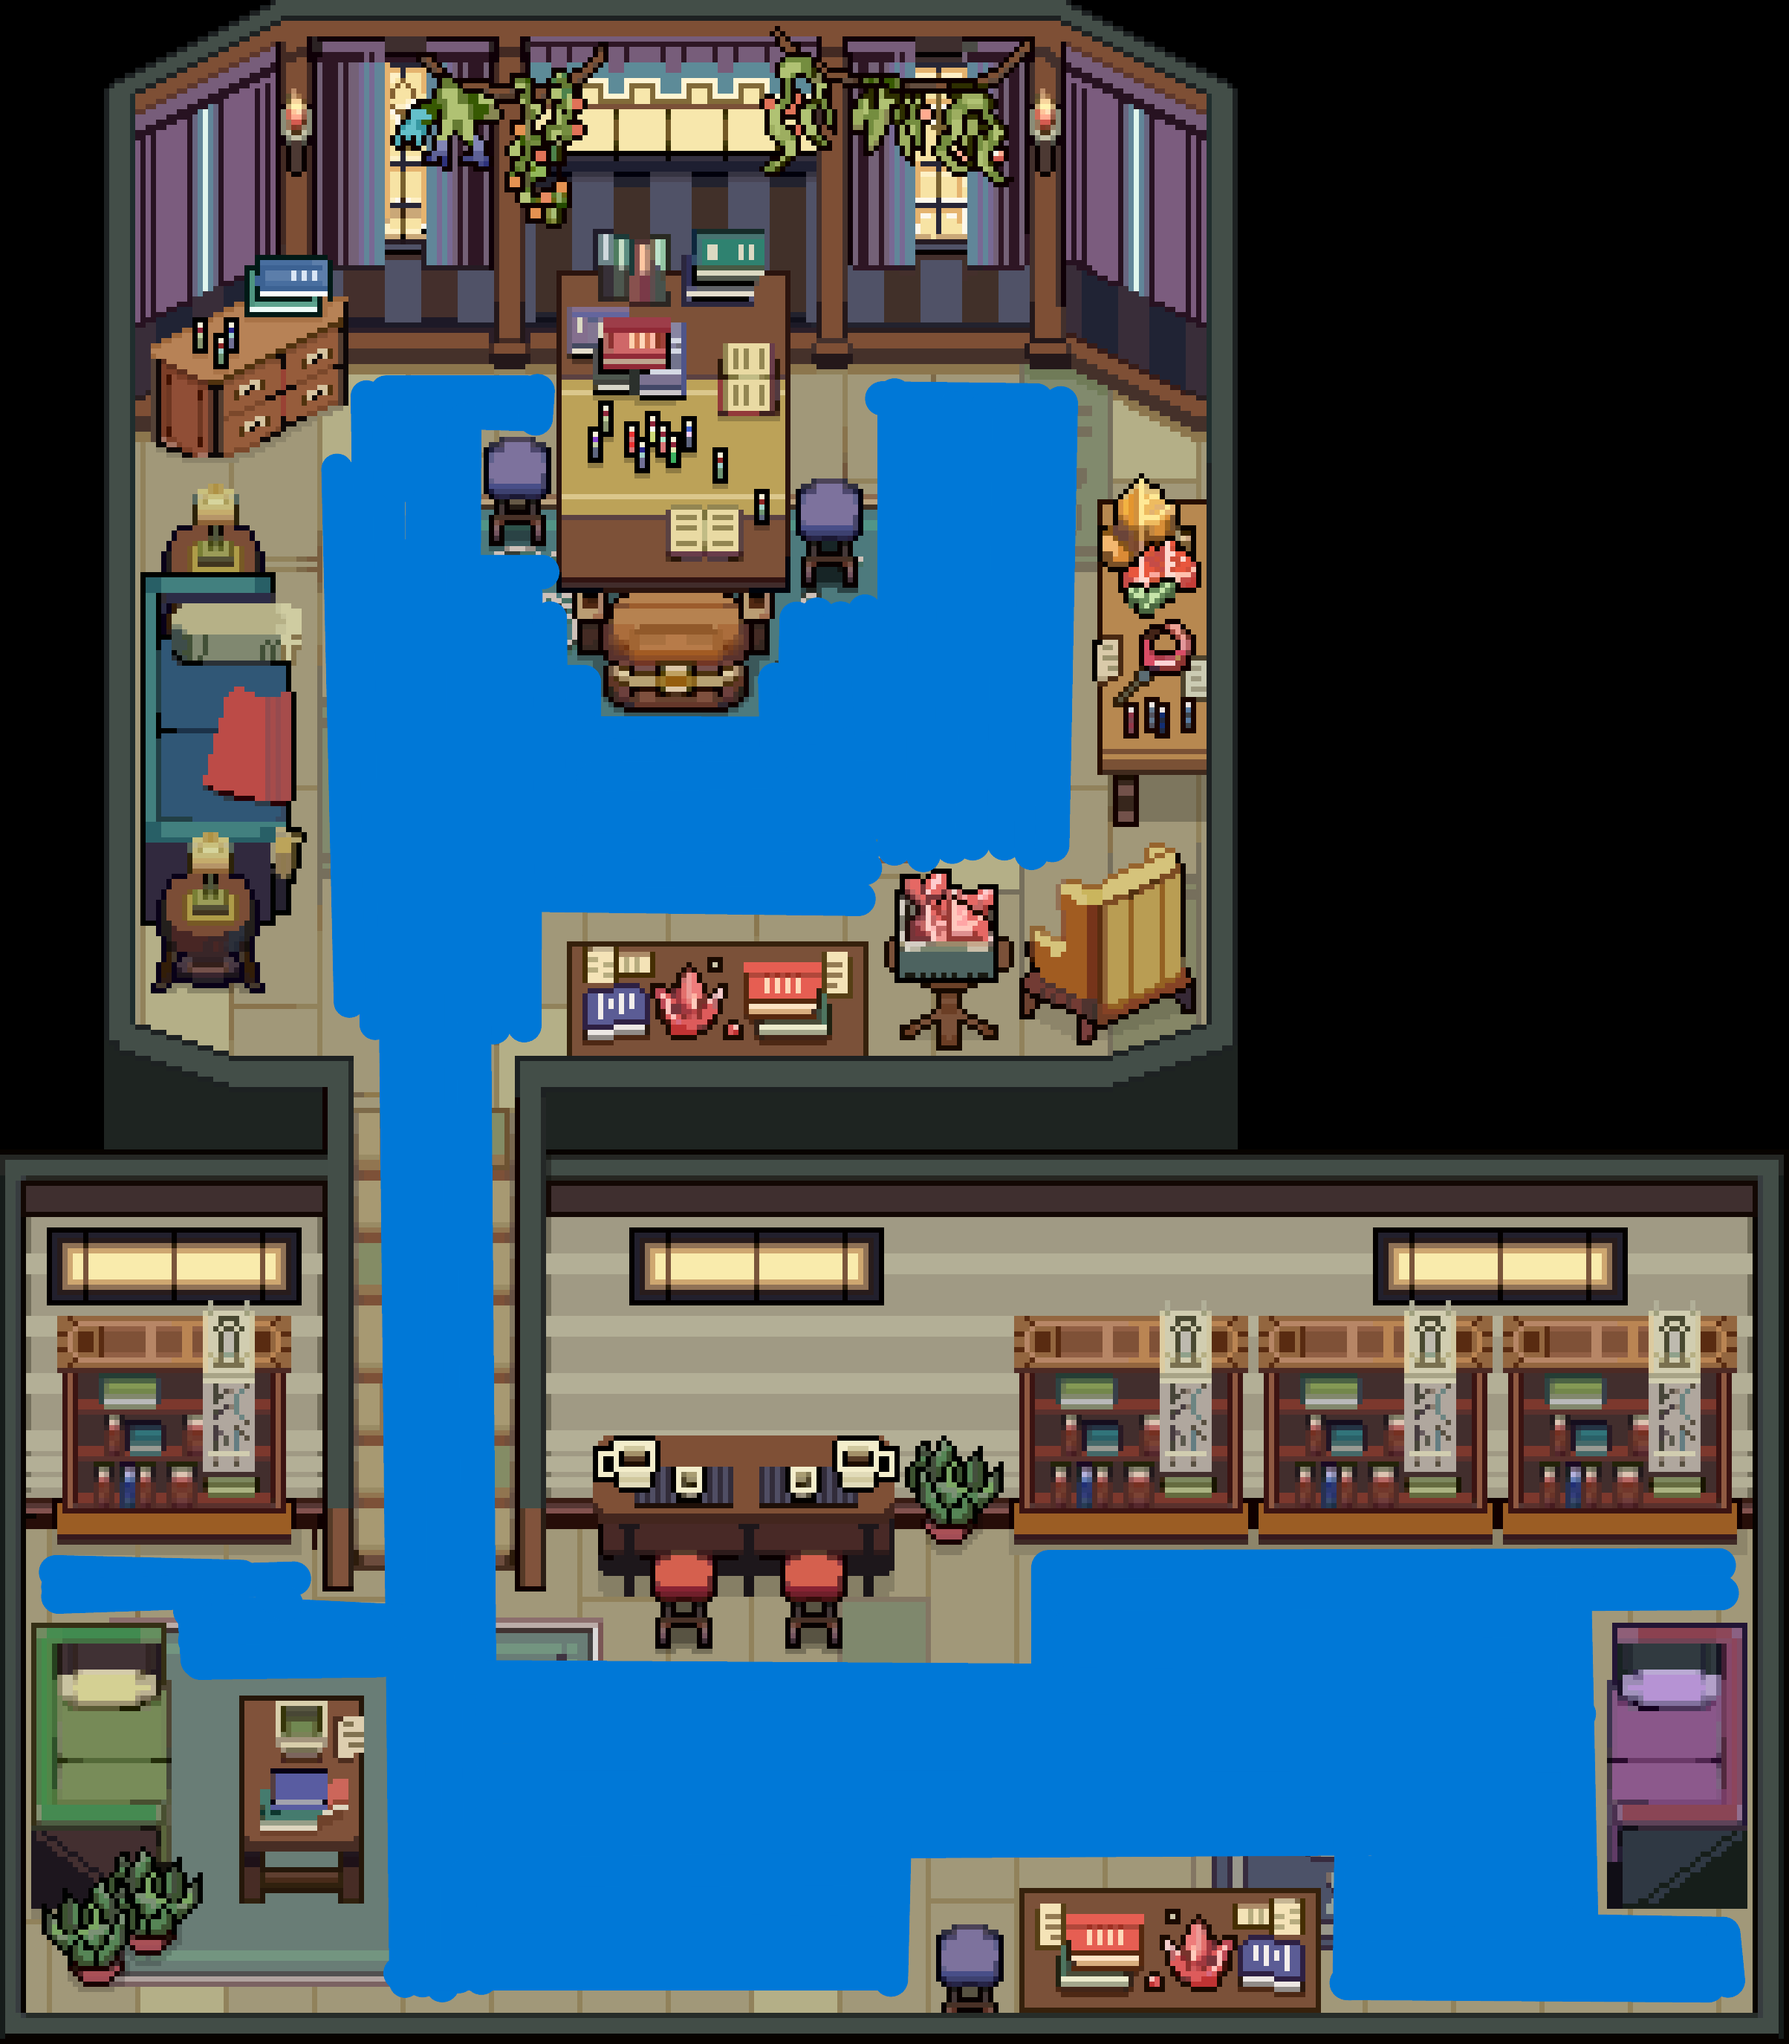
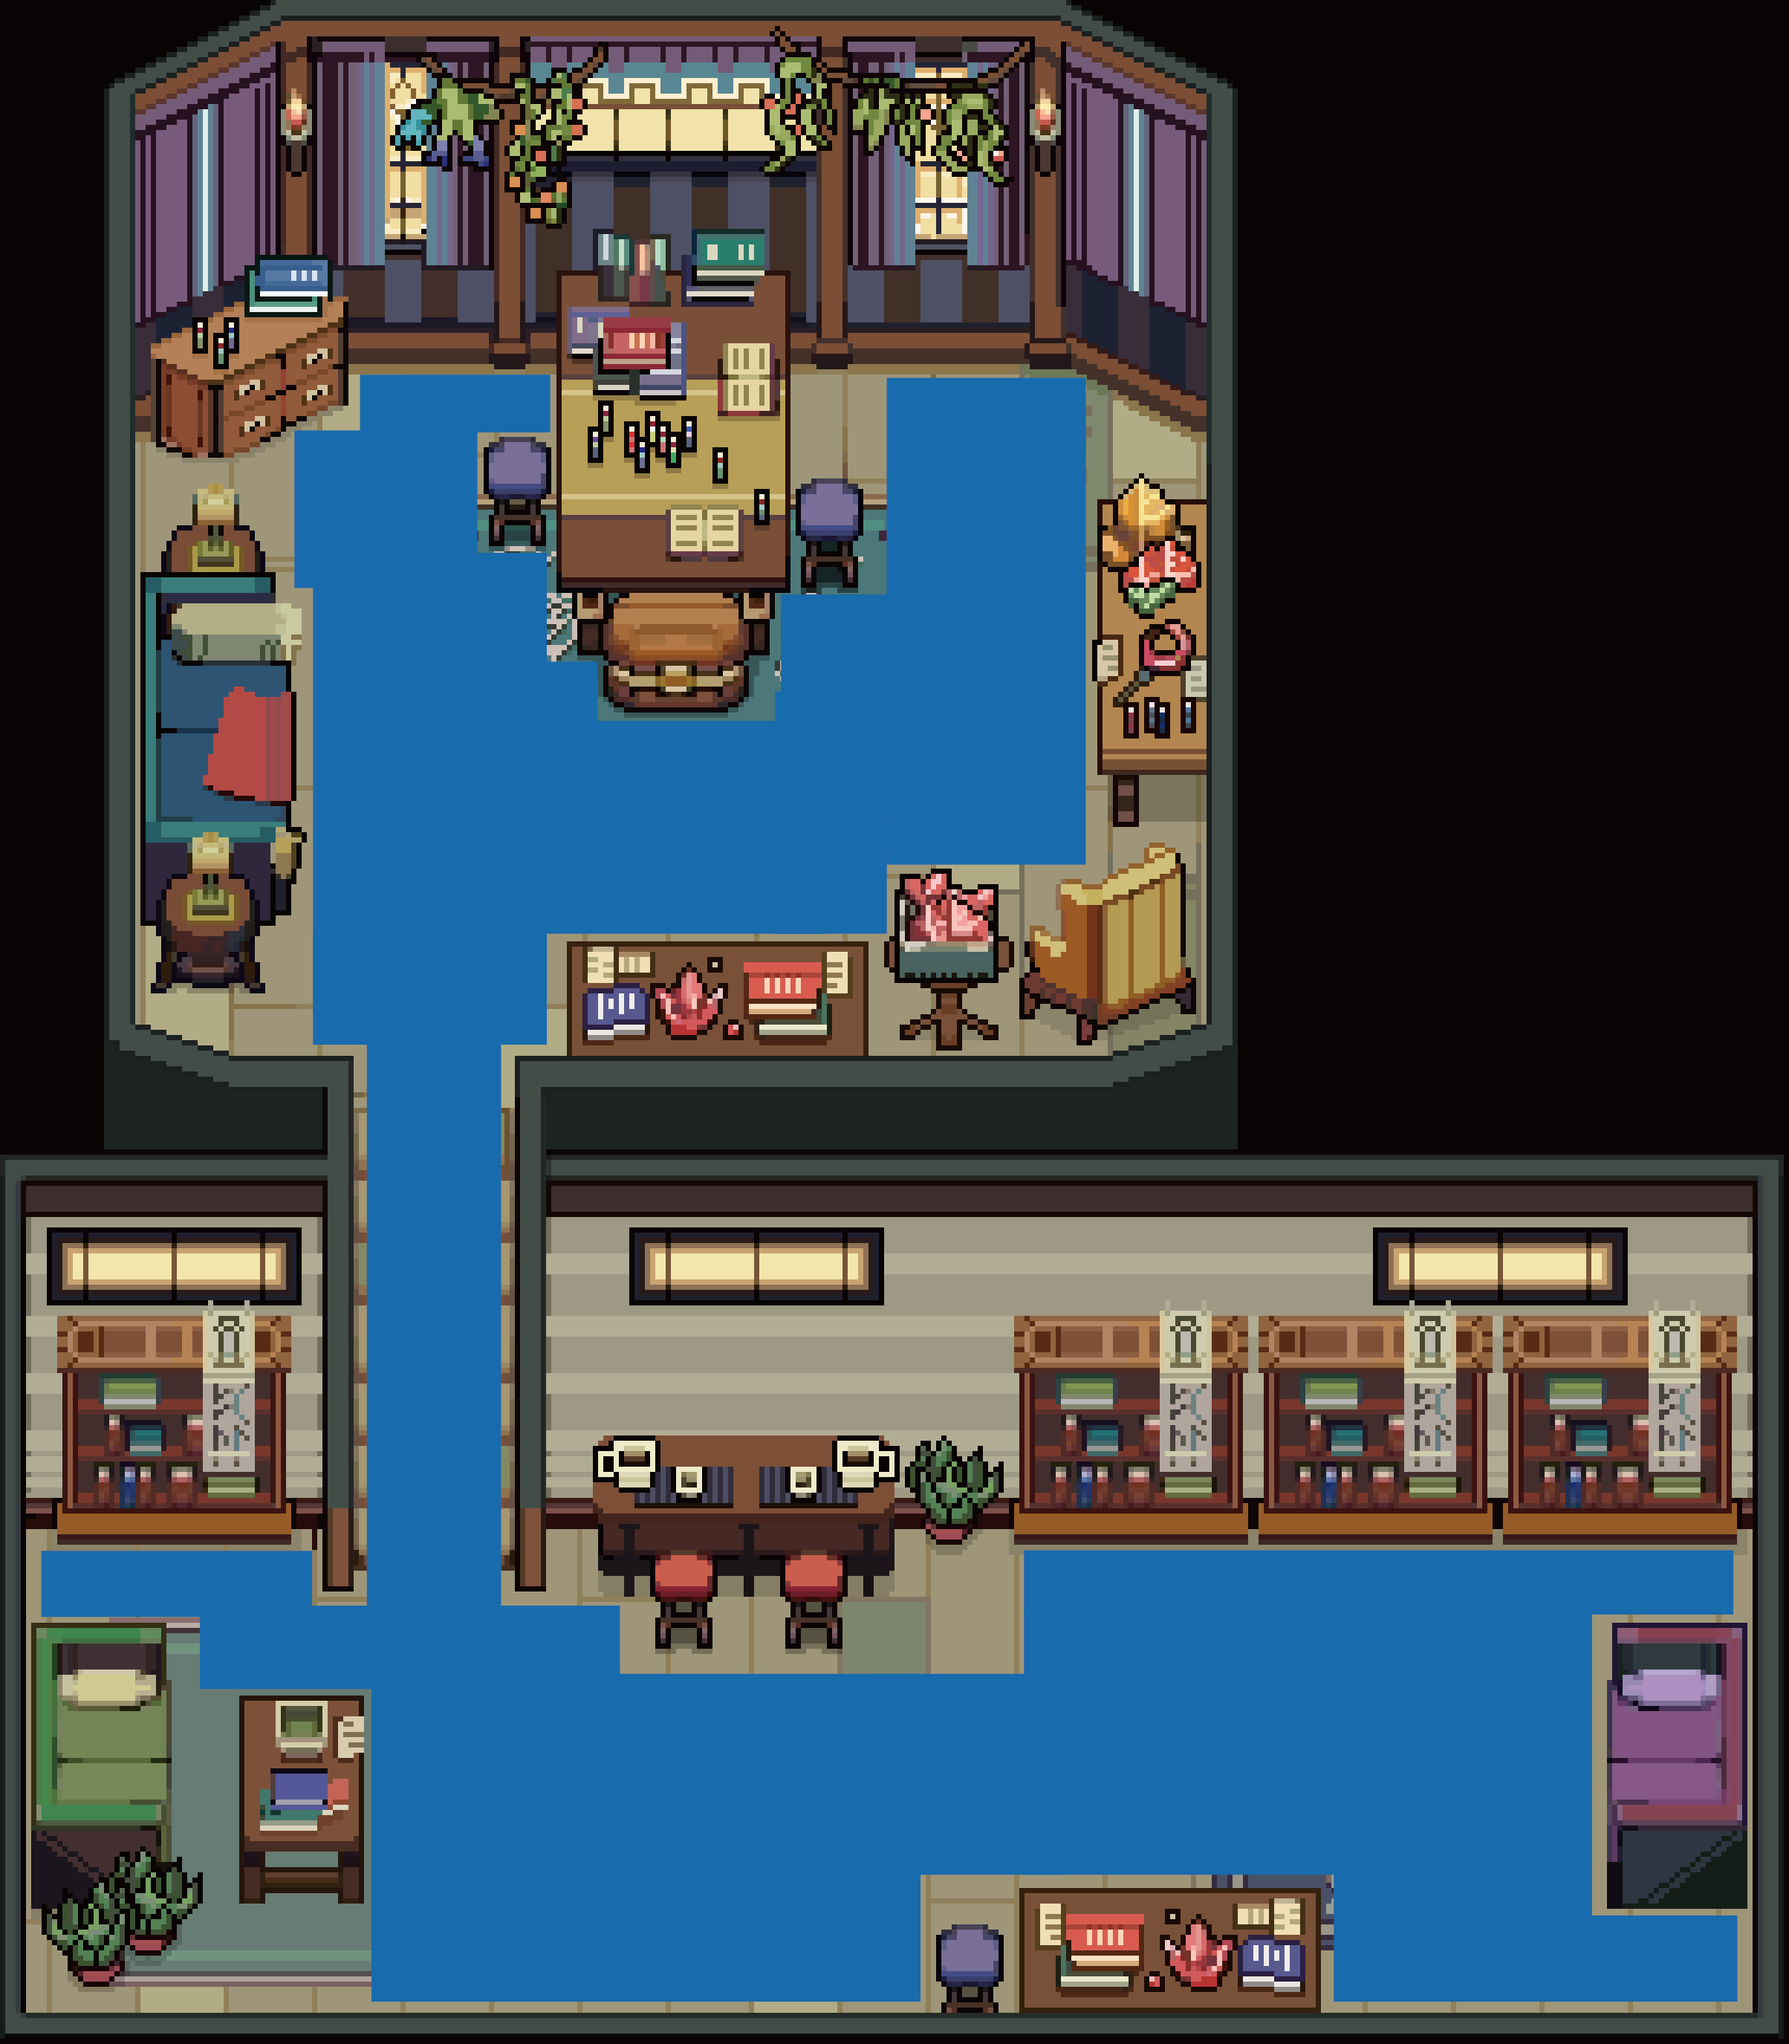
chore: 충돌관련 수정

Changed region(s): [[0.0, 0.1854, 0.9967, 0.9887]]

diff --git a/image-collision.ts b/image-collision.ts
@@ -42,21 +42,42 @@ export class ImageCollisionMap {
           .fill(0)
           .map(() => Array(this.width).fill(false))
 
+        // 첫 몇 개 픽셀의 색상 값 로깅 (디버깅용)
+        console.log("이미지 크기:", this.width, "x", this.height)
+        console.log("첫 10x10 픽셀의 색상 값:")
+        let foundColorPixels = 0
+
         // 파란색 픽셀(이동 가능 영역)만 true로 설정
-        // 샘플 이미지의 파란색과 유사한 색상 감지 (RGB: 0, 102, 204 주변)
+        // #1870B9 (RGB: 24, 112, 185) 색상 감지
         for (let y = 0; y < this.height; y++) {
           for (let x = 0; x < this.width; x++) {
             const idx = (y * this.width + x) * 4
 
-            // 정확한 파란색 감지 (RGB: 0, 102, 204 주변)
-            // 색상 범위를 넓게 잡아 유사한 파란색도 인식
-            if (
-              pixelData[idx] < 30 &&
-              pixelData[idx + 1] > 80 &&
-              pixelData[idx + 1] < 130 &&
-              pixelData[idx + 2] > 180
-            ) {
-              this.collisionData[y][x] = true
+            // 첫 10x10 픽셀의 색상 값 로깅
+            if (y < 10 && x < 10) {
+              console.log(
+                `픽셀(${x},${y}): R=${pixelData[idx]}, G=${pixelData[idx + 1]}, B=${pixelData[idx + 2]}, A=${pixelData[idx + 3]}`,
+              )
+            }
+
+            // #1870B9 (RGB: 24, 112, 185) 색상 감지 - 넓은 범위 적용
+            const r = pixelData[idx]
+            const g = pixelData[idx + 1]
+            const b = pixelData[idx + 2]
+            const a = pixelData[idx + 3]
+
+            // 알파 채널이 0이 아닌 경우에만 확인 (투명하지 않은 픽셀)
+            if (a > 0) {
+              // 색상 범위를 넓게 설정 (±20)
+              if (Math.abs(r - 24) <= 20 && Math.abs(g - 112) <= 20 && Math.abs(b - 185) <= 20) {
+                this.collisionData[y][x] = true
+                foundColorPixels++
+
+                // 처음 발견된 몇 개의 픽셀 위치 로깅
+                if (foundColorPixels <= 5) {
+                  console.log(`발견된 #1870B9 픽셀: (${x}, ${y}), 정확한 색상: R=${r}, G=${g}, B=${b}`)
+                }
+              }
             }
           }
         }
@@ -71,6 +92,42 @@ export class ImageCollisionMap {
           }
         }
         console.log(`이동 가능한 픽셀 수: ${bluePixelCount} / ${this.width * this.height}`)
+        console.log(`#1870B9 색상 픽셀 발견 수: ${foundColorPixels}`)
+
+        // 이동 가능한 픽셀이 없으면 경고
+        if (bluePixelCount === 0) {
+          console.warn("경고: 이동 가능한 픽셀이 발견되지 않았습니다! 색상 감지 로직을 확인하세요.")
+
+          // 대안으로 다른 파란색 계열 감지 시도
+          console.log("대안 색상 감지 시도 중...")
+          let alternativeFound = 0
+
+          for (let y = 0; y < this.height; y++) {
+            for (let x = 0; x < this.width; x++) {
+              const idx = (y * this.width + x) * 4
+
+              // 일반적인 파란색 계열 감지
+              if (
+                pixelData[idx] < 50 && // R: 낮음
+                pixelData[idx + 1] > 80 &&
+                pixelData[idx + 1] < 150 && // G: 중간
+                pixelData[idx + 2] > 150 // B: 높음
+              ) {
+                this.collisionData[y][x] = true
+                alternativeFound++
+
+                // 처음 발견된 몇 개의 픽셀 위치 로깅
+                if (alternativeFound <= 5) {
+                  console.log(
+                    `대안 파란색 픽셀: (${x}, ${y}), 색상: R=${pixelData[idx]}, G=${pixelData[idx + 1]}, B=${pixelData[idx + 2]}`,
+                  )
+                }
+              }
+            }
+          }
+
+          console.log(`대안 파란색 픽셀 발견 수: ${alternativeFound}`)
+        }
 
         this.loaded = true
         resolve(true)
@@ -156,10 +213,10 @@ export class ImageCollisionMap {
       for (let x = 0; x < this.width; x++) {
         const idx = (y * this.width + x) * 4
         if (this.collisionData[y][x]) {
-          // 이동 가능한 영역은 반투명 파란색으로 표시
-          data[idx] = 0 // R
-          data[idx + 1] = 102 // G
-          data[idx + 2] = 204 // B
+          // 이동 가능한 영역은 반투명 파란색으로 표시 (RGB: 24, 112, 185)
+          data[idx] = 24 // R
+          data[idx + 1] = 112 // G
+          data[idx + 2] = 185 // B
           data[idx + 3] = 128 // Alpha
         } else {
           // 이동 불가능한 영역은 투명하게 표시
